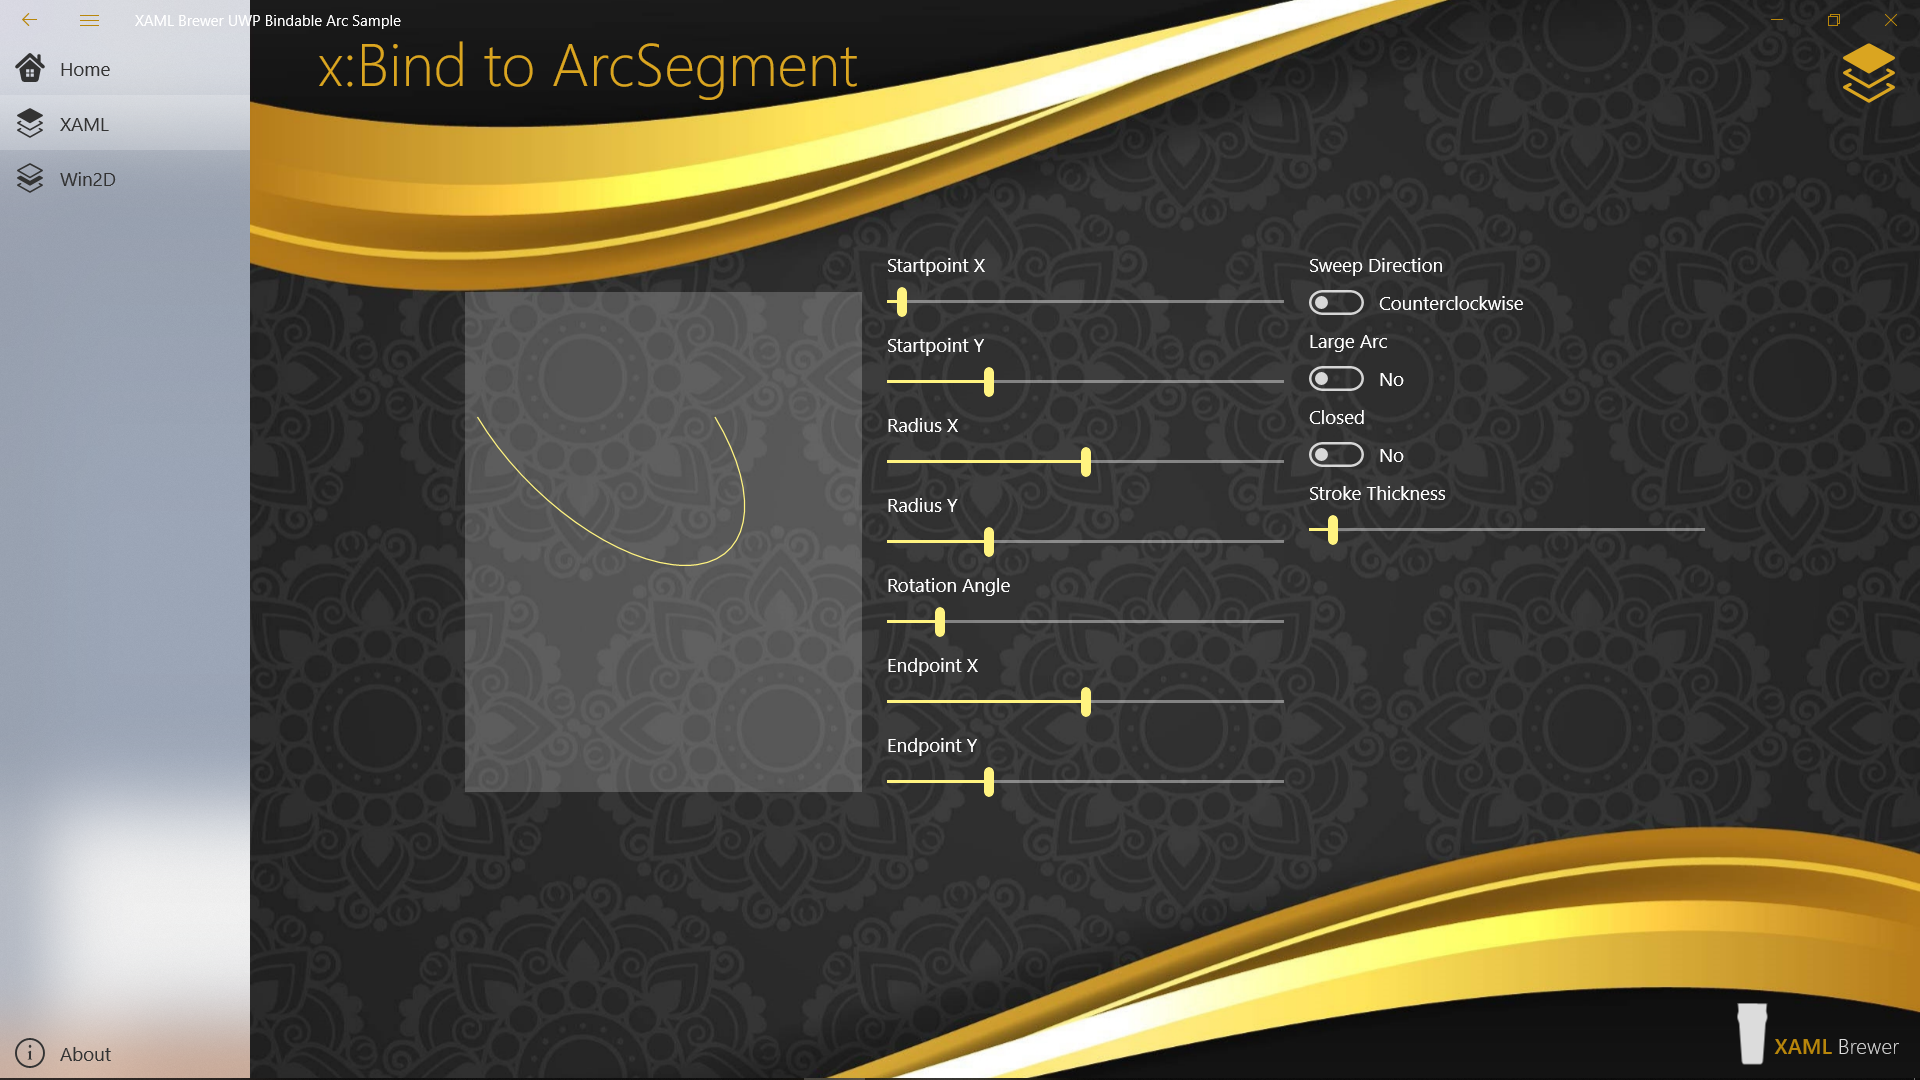
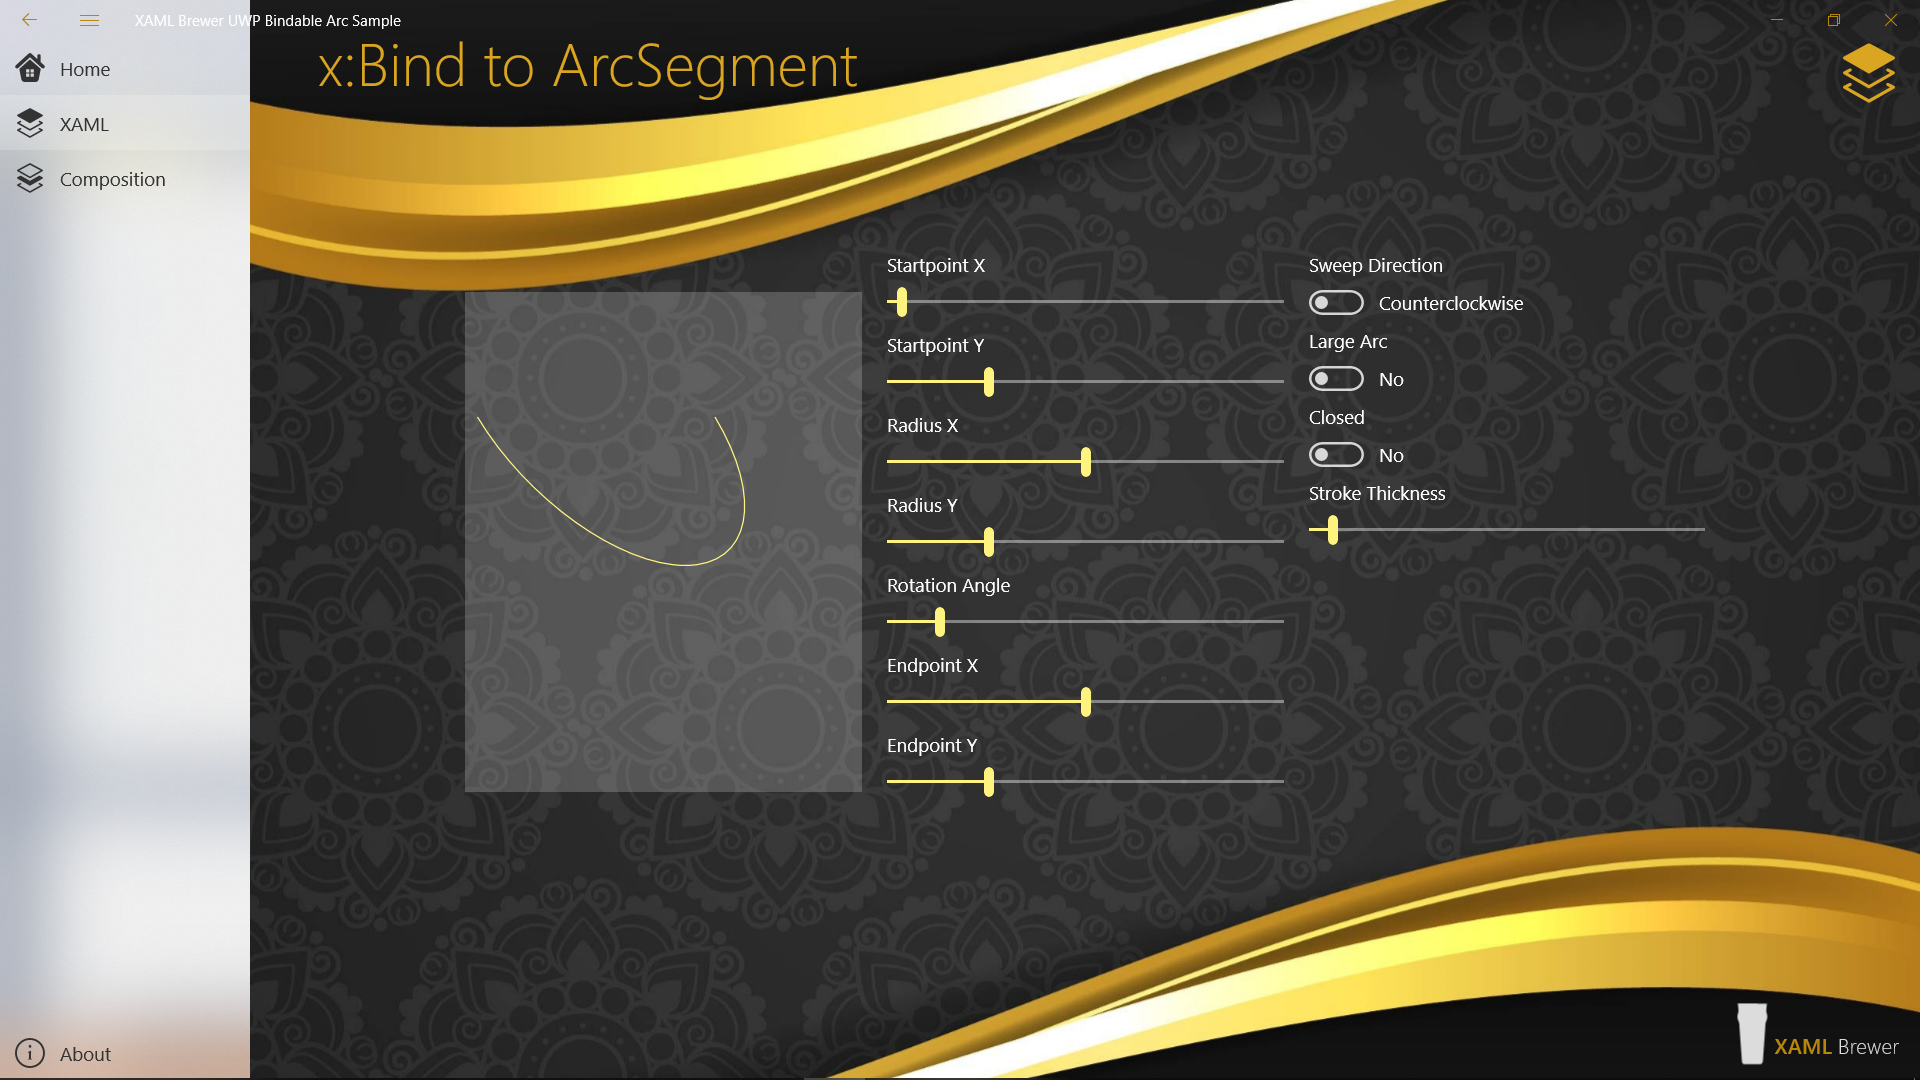
Replaced Win2D with Composition.

Changed region(s): [[0.0, 0.0917, 0.1562, 0.7333]]

diff --git a/XamlBrewer.Uwp.ArcPathSample/Views/Win2DPage.xaml b/XamlBrewer.Uwp.ArcPathSample/Views/Win2DPage.xaml
@@ -25,7 +25,7 @@
                    Margin="6 0 0 0"
                    TextLineBounds="TrimToCapHeight"
                    FontFamily="Segoe UI">
-                <Run Text="Draw with Win2D"
+                <Run Text="Draw with Composition"
                      FontFamily="Segoe UI" />
         </TextBlock>
         <Path Data="{StaticResource MiddleLayerIcon}"

diff --git a/XamlBrewer.Uwp.ArcPathSample/ViewModels/ShellViewModel.cs b/XamlBrewer.Uwp.ArcPathSample/ViewModels/ShellViewModel.cs
@@ -10,7 +10,7 @@ namespace Mvvm
             // Build the menus
             Menu.Add(new MenuItem() { Glyph = Icon.GetIcon("HomeIcon"), Text = "Home", NavigationDestination = typeof(HomePage) });
             Menu.Add(new MenuItem() { Glyph = Icon.GetIcon("TopLayerIcon"), Text = "XAML", NavigationDestination = typeof(ArcSegmentPage) });
-            Menu.Add(new MenuItem() { Glyph = Icon.GetIcon("MiddleLayerIcon"), Text = "Win2D", NavigationDestination = typeof(Win2DPage) });
+            Menu.Add(new MenuItem() { Glyph = Icon.GetIcon("MiddleLayerIcon"), Text = "Composition", NavigationDestination = typeof(Win2DPage) });
             SecondMenu.Add(new MenuItem() { Glyph = Icon.GetIcon("InfoIcon"), Text = "About", NavigationDestination = typeof(AboutPage) });
         }
     }
